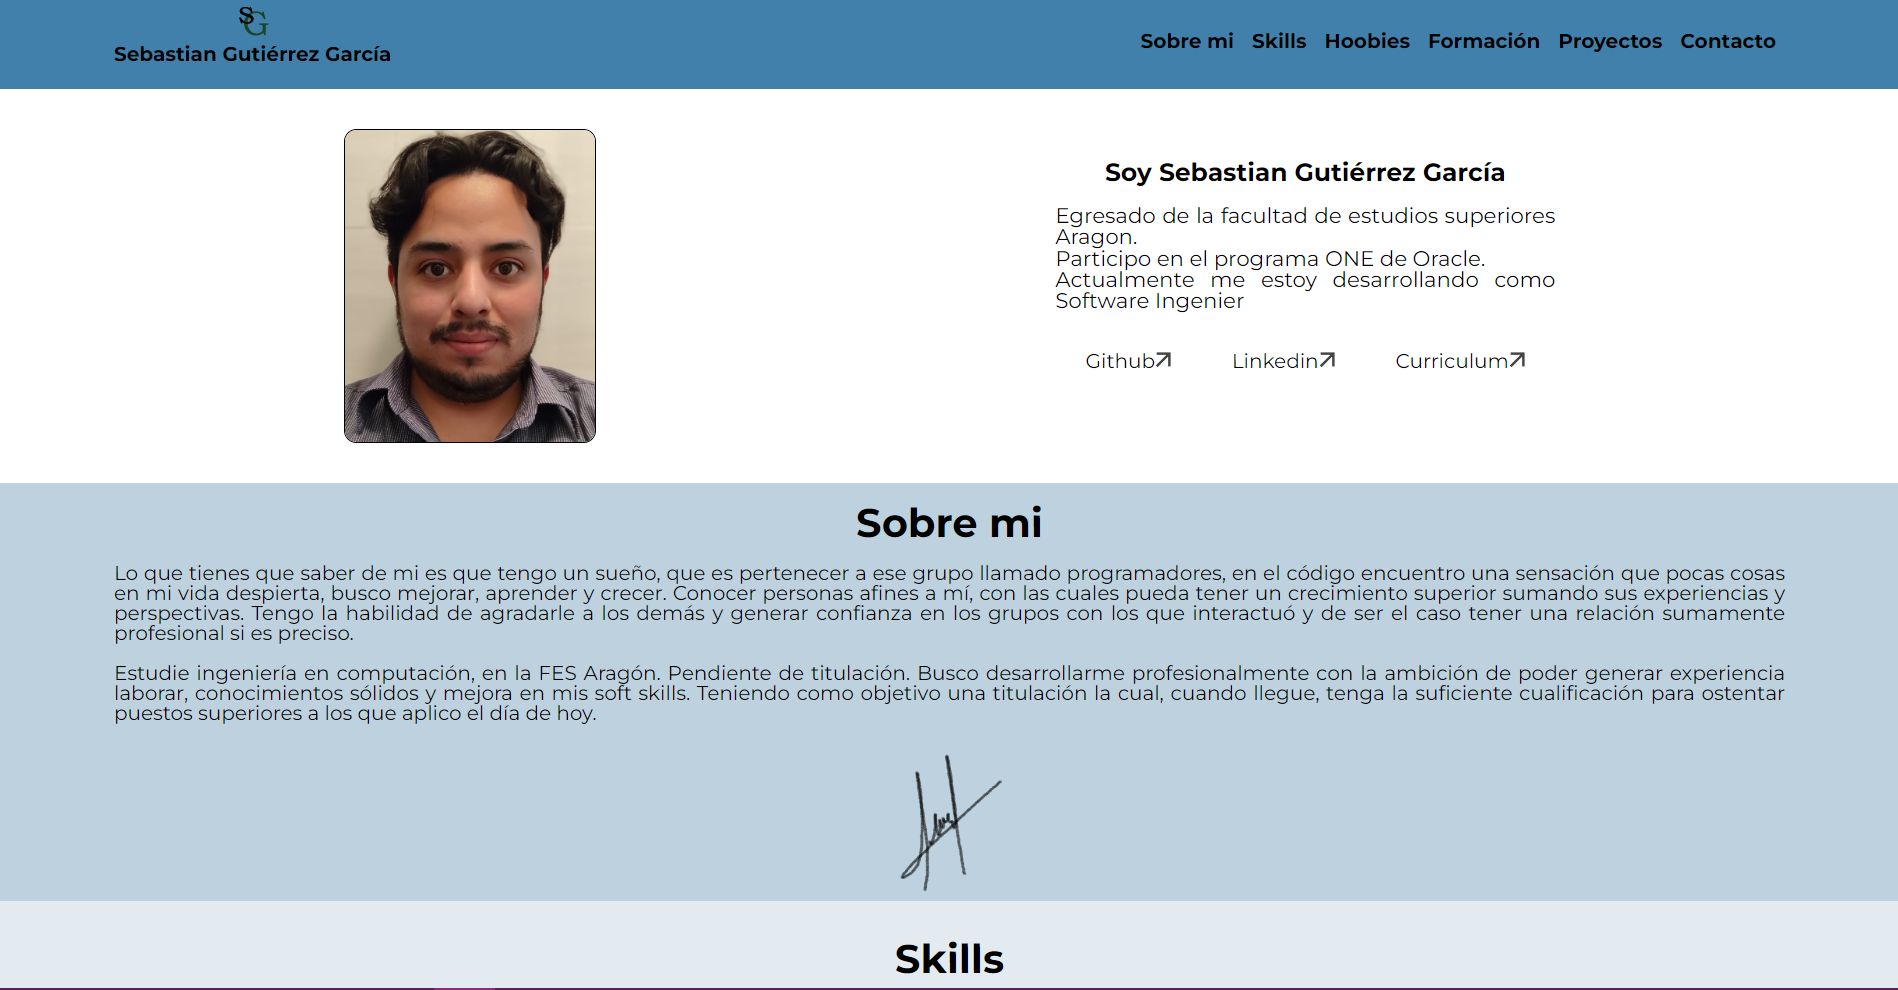
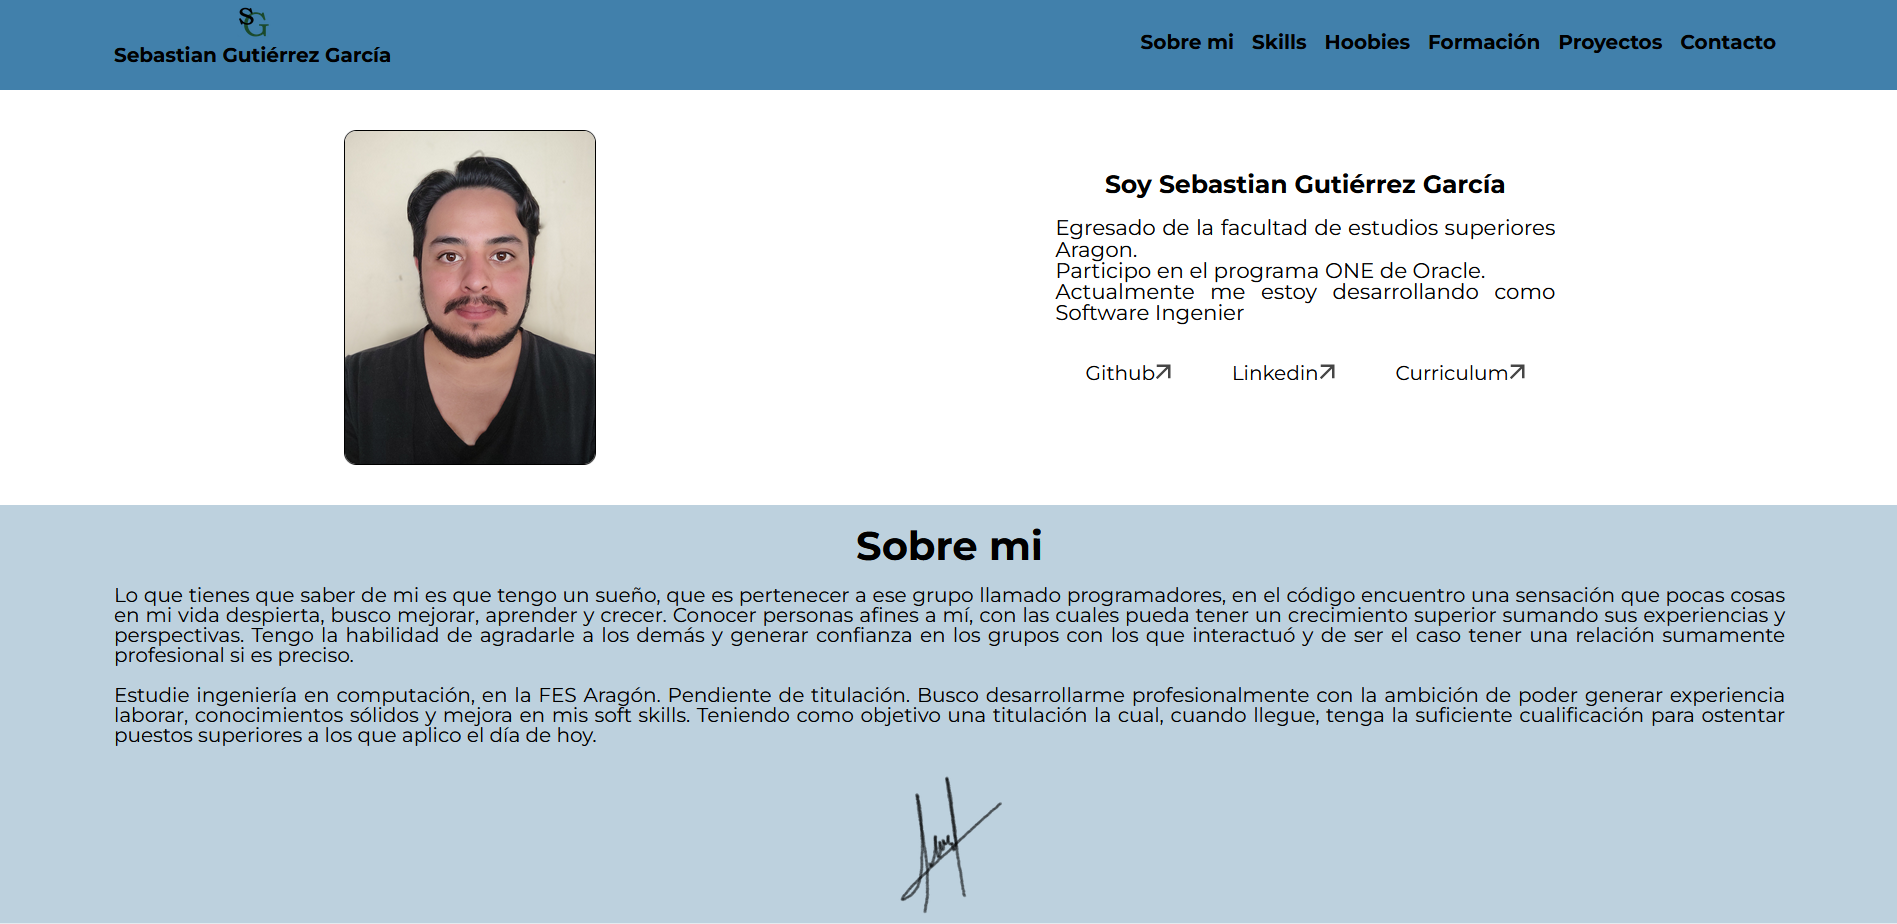
"Correccion ortografia"

diff --git a/index.html b/index.html
@@ -53,7 +53,7 @@
                         <p class="presentacion__medio">Egresado de la facultad de estudios superiores
                             Aragon.<br>Participo
                             en
-                            el programa ONE de Oracle.<br>Actualmente me estoy desarrollando como Software Ingenier
+                            el programa ONE de Oracle.<br>Actualmente me estoy desarrollando como Software Engineer
                         </p>
                     </div>
 
